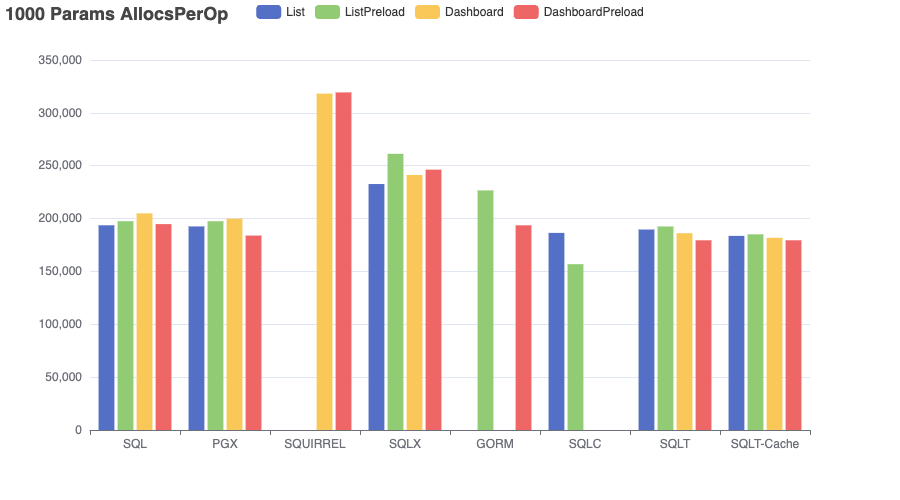
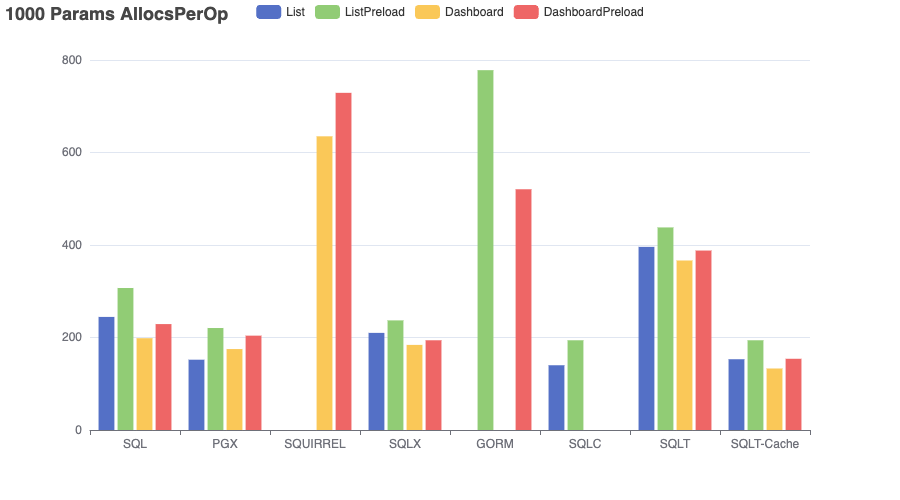
fix data bug

diff --git a/benchflix.go b/benchflix.go
@@ -321,12 +321,12 @@ func ReadAll(reader io.Reader) (Benchmark, error) {
 		switch {
 		case strings.HasPrefix(parts[3], "100-"):
 			szenario.Hundred.NsPerOp = append(szenario.Hundred.NsPerOp, b.NsPerOp)
-			szenario.Hundred.BytesPerOp = append(szenario.Hundred.NsPerOp, float64(b.AllocedBytesPerOp))
-			szenario.Hundred.AllocsPerOp = append(szenario.Hundred.NsPerOp, float64(b.AllocedBytesPerOp))
+			szenario.Hundred.BytesPerOp = append(szenario.Hundred.BytesPerOp, float64(b.AllocedBytesPerOp))
+			szenario.Hundred.AllocsPerOp = append(szenario.Hundred.AllocsPerOp, float64(b.AllocsPerOp))
 		case strings.HasPrefix(parts[3], "1000-"):
 			szenario.Thousand.NsPerOp = append(szenario.Thousand.NsPerOp, b.NsPerOp)
-			szenario.Thousand.BytesPerOp = append(szenario.Thousand.NsPerOp, float64(b.AllocedBytesPerOp))
-			szenario.Thousand.AllocsPerOp = append(szenario.Thousand.NsPerOp, float64(b.AllocedBytesPerOp))
+			szenario.Thousand.BytesPerOp = append(szenario.Thousand.BytesPerOp, float64(b.AllocedBytesPerOp))
+			szenario.Thousand.AllocsPerOp = append(szenario.Thousand.AllocsPerOp, float64(b.AllocsPerOp))
 		default:
 			return bench, fmt.Errorf("invalid params: %s", parts[3])
 		}

diff --git a/data/sqlt_bytesperop.tex b/data/sqlt_bytesperop.tex
@@ -5,14 +5,14 @@
 \toprule
 Szenario & Params & Q1 & Q2 & Q3 & QA & QA/Q2 \\
 \midrule
-		List & 100 & 190694 & 192974 & 195057 & 4363 & 2.3\% \\
-		ListPreload & 100 & 194123 & 194750 & 198892 & 4769 & 2.4\% \\
-		Dashboard & 100 & 202398 & 203927 & 205037 & 2639 & 1.3\% \\
-		DashboardPreload & 100 & 191094 & 193188 & 194897 & 3803 & 2.0\% \\
-		List & 1000 & 186502 & 189639 & 190550 & 4048 & 2.1\% \\
-		ListPreload & 1000 & 192104 & 192533 & 193596 & 1492 & 0.8\% \\
-		Dashboard & 1000 & 184166 & 186166 & 186684 & 2518 & 1.4\% \\
-		DashboardPreload & 1000 & 178355 & 179460 & 181207 & 2852 & 1.6\% \\
+		List & 100 & 16411 & 16442 & 16457 & 46 & 0.3\% \\
+		ListPreload & 100 & 18340 & 18363 & 18397 & 57 & 0.3\% \\
+		Dashboard & 100 & 15091 & 15098 & 15102 & 11 & 0.1\% \\
+		DashboardPreload & 100 & 16264 & 16307 & 16329 & 65 & 0.4\% \\
+		List & 1000 & 17269 & 17301 & 17312 & 43 & 0.2\% \\
+		ListPreload & 1000 & 19523 & 19554 & 19572 & 49 & 0.3\% \\
+		Dashboard & 1000 & 15900 & 15924 & 15957 & 57 & 0.4\% \\
+		DashboardPreload & 1000 & 17147 & 17159 & 17165 & 18 & 0.1\% \\
 \bottomrule
 \end{tabular}
 \label{tab:benchmark_sqlt_bytesperop}

diff --git a/data/sql_bytesperop.tex b/data/sql_bytesperop.tex
@@ -5,14 +5,14 @@
 \toprule
 Szenario & Params & Q1 & Q2 & Q3 & QA & QA/Q2 \\
 \midrule
-		List & 100 & 197822 & 199260 & 200730 & 2908 & 1.5\% \\
-		ListPreload & 100 & 199092 & 201232 & 211879 & 12787 & 6.4\% \\
-		Dashboard & 100 & 189181 & 190909 & 192038 & 2857 & 1.5\% \\
-		DashboardPreload & 100 & 193868 & 195524 & 199452 & 5584 & 2.9\% \\
-		List & 1000 & 191487 & 193646 & 194319 & 2832 & 1.5\% \\
-		ListPreload & 1000 & 196122 & 197495 & 198646 & 2524 & 1.3\% \\
-		Dashboard & 1000 & 202141 & 204913 & 206942 & 4801 & 2.3\% \\
-		DashboardPreload & 1000 & 193501 & 194758 & 196350 & 2849 & 1.5\% \\
+		List & 100 & 9312 & 9314 & 9322 & 10 & 0.1\% \\
+		ListPreload & 100 & 11952 & 11963 & 11991 & 39 & 0.3\% \\
+		Dashboard & 100 & 9996 & 10000 & 10004 & 8 & 0.1\% \\
+		DashboardPreload & 100 & 11694 & 11703 & 11716 & 22 & 0.2\% \\
+		List & 1000 & 10375 & 10389 & 10409 & 34 & 0.3\% \\
+		ListPreload & 1000 & 13223 & 13260 & 13273 & 50 & 0.4\% \\
+		Dashboard & 1000 & 10928 & 10957 & 11087 & 159 & 1.5\% \\
+		DashboardPreload & 1000 & 12826 & 12851 & 12860 & 34 & 0.3\% \\
 \bottomrule
 \end{tabular}
 \label{tab:benchmark_sql_bytesperop}

diff --git a/data/sqlx_bytesperop.tex b/data/sqlx_bytesperop.tex
@@ -5,14 +5,14 @@
 \toprule
 Szenario & Params & Q1 & Q2 & Q3 & QA & QA/Q2 \\
 \midrule
-		List & 100 & 235978 & 236831 & 239354 & 3376 & 1.4\% \\
-		ListPreload & 100 & 267592 & 269341 & 274021 & 6429 & 2.4\% \\
-		Dashboard & 100 & 242533 & 243964 & 245948 & 3415 & 1.4\% \\
-		DashboardPreload & 100 & 256052 & 257734 & 263776 & 7724 & 3.0\% \\
-		List & 1000 & 231355 & 232680 & 234089 & 2734 & 1.2\% \\
-		ListPreload & 1000 & 260418 & 261255 & 261689 & 1271 & 0.5\% \\
-		Dashboard & 1000 & 234530 & 241224 & 242045 & 7515 & 3.1\% \\
-		DashboardPreload & 1000 & 245000 & 246274 & 249209 & 4209 & 1.7\% \\
+		List & 100 & 8863 & 8900 & 8912 & 49 & 0.6\% \\
+		ListPreload & 100 & 12348 & 12360 & 12390 & 42 & 0.3\% \\
+		Dashboard & 100 & 11634 & 11646 & 11651 & 17 & 0.1\% \\
+		DashboardPreload & 100 & 12682 & 12689 & 12703 & 21 & 0.2\% \\
+		List & 1000 & 9663 & 9693 & 9722 & 59 & 0.6\% \\
+		ListPreload & 1000 & 12978 & 12982 & 13010 & 32 & 0.2\% \\
+		Dashboard & 1000 & 12082 & 12090 & 12101 & 19 & 0.2\% \\
+		DashboardPreload & 1000 & 13193 & 13229 & 13241 & 48 & 0.4\% \\
 \bottomrule
 \end{tabular}
 \label{tab:benchmark_sqlx_bytesperop}

diff --git a/data/pgx_bytesperop.tex b/data/pgx_bytesperop.tex
@@ -5,14 +5,14 @@
 \toprule
 Szenario & Params & Q1 & Q2 & Q3 & QA & QA/Q2 \\
 \midrule
-		List & 100 & 195230 & 196462 & 198097 & 2867 & 1.5\% \\
-		ListPreload & 100 & 198030 & 200307 & 205542 & 7512 & 3.8\% \\
-		Dashboard & 100 & 187988 & 188897 & 191004 & 3016 & 1.6\% \\
-		DashboardPreload & 100 & 188553 & 189463 & 192292 & 3739 & 2.0\% \\
-		List & 1000 & 188898 & 192566 & 194448 & 5550 & 2.9\% \\
-		ListPreload & 1000 & 196588 & 197478 & 199882 & 3294 & 1.7\% \\
-		Dashboard & 1000 & 198329 & 199952 & 201725 & 3396 & 1.7\% \\
-		DashboardPreload & 1000 & 182655 & 183925 & 185690 & 3035 & 1.7\% \\
+		List & 100 & 5849 & 5852 & 5868 & 19 & 0.3\% \\
+		ListPreload & 100 & 8667 & 8676 & 8691 & 24 & 0.3\% \\
+		Dashboard & 100 & 9379 & 9395 & 9398 & 19 & 0.2\% \\
+		DashboardPreload & 100 & 11307 & 11322 & 11333 & 26 & 0.2\% \\
+		List & 1000 & 7110 & 7113 & 7126 & 16 & 0.2\% \\
+		ListPreload & 1000 & 10200 & 10227 & 10250 & 50 & 0.5\% \\
+		Dashboard & 1000 & 10492 & 10510 & 10523 & 31 & 0.3\% \\
+		DashboardPreload & 1000 & 12436 & 12439 & 12442 & 6 & 0.0\% \\
 \bottomrule
 \end{tabular}
 \label{tab:benchmark_pgx_bytesperop}

diff --git a/data/sqlt-cache_bytesperop.tex b/data/sqlt-cache_bytesperop.tex
@@ -5,14 +5,14 @@
 \toprule
 Szenario & Params & Q1 & Q2 & Q3 & QA & QA/Q2 \\
 \midrule
-		List & 100 & 186463 & 187979 & 190975 & 4512 & 2.4\% \\
-		ListPreload & 100 & 184407 & 185907 & 190201 & 5794 & 3.1\% \\
-		Dashboard & 100 & 198863 & 200287 & 201462 & 2599 & 1.3\% \\
-		DashboardPreload & 100 & 188210 & 190965 & 192707 & 4497 & 2.4\% \\
-		List & 1000 & 181883 & 183607 & 189451 & 7568 & 4.1\% \\
-		ListPreload & 1000 & 184453 & 185115 & 186521 & 2068 & 1.1\% \\
-		Dashboard & 1000 & 180087 & 181845 & 182633 & 2546 & 1.4\% \\
-		DashboardPreload & 1000 & 177698 & 179467 & 181609 & 3911 & 2.2\% \\
+		List & 100 & 5444 & 5457 & 5482 & 38 & 0.7\% \\
+		ListPreload & 100 & 7452 & 7485 & 7517 & 65 & 0.9\% \\
+		Dashboard & 100 & 5089 & 5094 & 5109 & 20 & 0.4\% \\
+		DashboardPreload & 100 & 6038 & 6064 & 6093 & 55 & 0.9\% \\
+		List & 1000 & 6402 & 6426 & 6438 & 36 & 0.6\% \\
+		ListPreload & 1000 & 8805 & 8821 & 8837 & 32 & 0.4\% \\
+		Dashboard & 1000 & 6093 & 6102 & 6115 & 22 & 0.4\% \\
+		DashboardPreload & 1000 & 7310 & 7332 & 7339 & 29 & 0.4\% \\
 \bottomrule
 \end{tabular}
 \label{tab:benchmark_sqlt-cache_bytesperop}

diff --git a/data/sqlt-cache_allocsperop.tex b/data/sqlt-cache_allocsperop.tex
@@ -5,14 +5,14 @@
 \toprule
 Szenario & Params & Q1 & Q2 & Q3 & QA & QA/Q2 \\
 \midrule
-		List & 100 & 186463 & 187979 & 190975 & 4512 & 2.4\% \\
-		ListPreload & 100 & 184407 & 185907 & 190201 & 5794 & 3.1\% \\
-		Dashboard & 100 & 198863 & 200287 & 201462 & 2599 & 1.3\% \\
-		DashboardPreload & 100 & 188210 & 190965 & 192707 & 4497 & 2.4\% \\
-		List & 1000 & 181883 & 183607 & 189451 & 7568 & 4.1\% \\
-		ListPreload & 1000 & 184453 & 185115 & 186521 & 2068 & 1.1\% \\
-		Dashboard & 1000 & 180087 & 181845 & 182633 & 2546 & 1.4\% \\
-		DashboardPreload & 1000 & 177698 & 179467 & 181609 & 3911 & 2.2\% \\
+		List & 100 & 134 & 135 & 135 & 1 & 0.7\% \\
+		ListPreload & 100 & 170 & 171 & 171 & 1 & 0.6\% \\
+		Dashboard & 100 & 114 & 114 & 115 & 1 & 0.9\% \\
+		DashboardPreload & 100 & 132 & 132 & 133 & 1 & 0.8\% \\
+		List & 1000 & 153 & 153 & 154 & 1 & 0.7\% \\
+		ListPreload & 1000 & 194 & 194 & 195 & 1 & 0.5\% \\
+		Dashboard & 1000 & 133 & 133 & 133 & 0 & 0.0\% \\
+		DashboardPreload & 1000 & 153 & 154 & 154 & 1 & 0.6\% \\
 \bottomrule
 \end{tabular}
 \label{tab:benchmark_sqlt-cache_allocsperop}

diff --git a/data/sql_allocsperop.tex b/data/sql_allocsperop.tex
@@ -5,14 +5,14 @@
 \toprule
 Szenario & Params & Q1 & Q2 & Q3 & QA & QA/Q2 \\
 \midrule
-		List & 100 & 197822 & 199260 & 200730 & 2908 & 1.5\% \\
-		ListPreload & 100 & 199092 & 201232 & 211879 & 12787 & 6.4\% \\
-		Dashboard & 100 & 189181 & 190909 & 192038 & 2857 & 1.5\% \\
-		DashboardPreload & 100 & 193868 & 195524 & 199452 & 5584 & 2.9\% \\
-		List & 1000 & 191487 & 193646 & 194319 & 2832 & 1.5\% \\
-		ListPreload & 1000 & 196122 & 197495 & 198646 & 2524 & 1.3\% \\
-		Dashboard & 1000 & 202141 & 204913 & 206942 & 4801 & 2.3\% \\
-		DashboardPreload & 1000 & 193501 & 194758 & 196350 & 2849 & 1.5\% \\
+		List & 100 & 207 & 207 & 207 & 0 & 0.0\% \\
+		ListPreload & 100 & 260 & 260 & 263 & 3 & 1.2\% \\
+		Dashboard & 100 & 176 & 176 & 176 & 0 & 0.0\% \\
+		DashboardPreload & 100 & 197 & 197 & 197 & 0 & 0.0\% \\
+		List & 1000 & 244 & 245 & 245 & 1 & 0.4\% \\
+		ListPreload & 1000 & 305 & 307 & 307 & 2 & 0.7\% \\
+		Dashboard & 1000 & 198 & 199 & 205 & 7 & 3.5\% \\
+		DashboardPreload & 1000 & 228 & 229 & 229 & 1 & 0.4\% \\
 \bottomrule
 \end{tabular}
 \label{tab:benchmark_sql_allocsperop}

diff --git a/data/sqlt_allocsperop.tex b/data/sqlt_allocsperop.tex
@@ -5,14 +5,14 @@
 \toprule
 Szenario & Params & Q1 & Q2 & Q3 & QA & QA/Q2 \\
 \midrule
-		List & 100 & 190694 & 192974 & 195057 & 4363 & 2.3\% \\
-		ListPreload & 100 & 194123 & 194750 & 198892 & 4769 & 2.4\% \\
-		Dashboard & 100 & 202398 & 203927 & 205037 & 2639 & 1.3\% \\
-		DashboardPreload & 100 & 191094 & 193188 & 194897 & 3803 & 2.0\% \\
-		List & 1000 & 186502 & 189639 & 190550 & 4048 & 2.1\% \\
-		ListPreload & 1000 & 192104 & 192533 & 193596 & 1492 & 0.8\% \\
-		Dashboard & 1000 & 184166 & 186166 & 186684 & 2518 & 1.4\% \\
-		DashboardPreload & 1000 & 178355 & 179460 & 181207 & 2852 & 1.6\% \\
+		List & 100 & 377 & 378 & 378 & 1 & 0.3\% \\
+		ListPreload & 100 & 416 & 416 & 417 & 1 & 0.2\% \\
+		Dashboard & 100 & 349 & 350 & 350 & 1 & 0.3\% \\
+		DashboardPreload & 100 & 372 & 372 & 373 & 1 & 0.3\% \\
+		List & 1000 & 395 & 396 & 396 & 1 & 0.3\% \\
+		ListPreload & 1000 & 437 & 438 & 438 & 1 & 0.2\% \\
+		Dashboard & 1000 & 366 & 367 & 367 & 1 & 0.3\% \\
+		DashboardPreload & 1000 & 388 & 388 & 388 & 0 & 0.0\% \\
 \bottomrule
 \end{tabular}
 \label{tab:benchmark_sqlt_allocsperop}

diff --git a/data/sqlx_allocsperop.tex b/data/sqlx_allocsperop.tex
@@ -5,14 +5,14 @@
 \toprule
 Szenario & Params & Q1 & Q2 & Q3 & QA & QA/Q2 \\
 \midrule
-		List & 100 & 235978 & 236831 & 239354 & 3376 & 1.4\% \\
-		ListPreload & 100 & 267592 & 269341 & 274021 & 6429 & 2.4\% \\
-		Dashboard & 100 & 242533 & 243964 & 245948 & 3415 & 1.4\% \\
-		DashboardPreload & 100 & 256052 & 257734 & 263776 & 7724 & 3.0\% \\
-		List & 1000 & 231355 & 232680 & 234089 & 2734 & 1.2\% \\
-		ListPreload & 1000 & 260418 & 261255 & 261689 & 1271 & 0.5\% \\
-		Dashboard & 1000 & 234530 & 241224 & 242045 & 7515 & 3.1\% \\
-		DashboardPreload & 1000 & 245000 & 246274 & 249209 & 4209 & 1.7\% \\
+		List & 100 & 192 & 193 & 193 & 1 & 0.5\% \\
+		ListPreload & 100 & 221 & 221 & 222 & 1 & 0.5\% \\
+		Dashboard & 100 & 169 & 170 & 170 & 1 & 0.6\% \\
+		DashboardPreload & 100 & 181 & 181 & 181 & 0 & 0.0\% \\
+		List & 1000 & 210 & 210 & 211 & 1 & 0.5\% \\
+		ListPreload & 1000 & 237 & 237 & 238 & 1 & 0.4\% \\
+		Dashboard & 1000 & 183 & 184 & 184 & 1 & 0.5\% \\
+		DashboardPreload & 1000 & 193 & 194 & 195 & 2 & 1.0\% \\
 \bottomrule
 \end{tabular}
 \label{tab:benchmark_sqlx_allocsperop}

diff --git a/data/pgx_allocsperop.tex b/data/pgx_allocsperop.tex
@@ -5,14 +5,14 @@
 \toprule
 Szenario & Params & Q1 & Q2 & Q3 & QA & QA/Q2 \\
 \midrule
-		List & 100 & 195230 & 196462 & 198097 & 2867 & 1.5\% \\
-		ListPreload & 100 & 198030 & 200307 & 205542 & 7512 & 3.8\% \\
-		Dashboard & 100 & 187988 & 188897 & 191004 & 3016 & 1.6\% \\
-		DashboardPreload & 100 & 188553 & 189463 & 192292 & 3739 & 2.0\% \\
-		List & 1000 & 188898 & 192566 & 194448 & 5550 & 2.9\% \\
-		ListPreload & 1000 & 196588 & 197478 & 199882 & 3294 & 1.7\% \\
-		Dashboard & 1000 & 198329 & 199952 & 201725 & 3396 & 1.7\% \\
-		DashboardPreload & 1000 & 182655 & 183925 & 185690 & 3035 & 1.7\% \\
+		List & 100 & 127 & 128 & 128 & 1 & 0.8\% \\
+		ListPreload & 100 & 184 & 185 & 185 & 1 & 0.5\% \\
+		Dashboard & 100 & 154 & 154 & 154 & 0 & 0.0\% \\
+		DashboardPreload & 100 & 181 & 181 & 181 & 0 & 0.0\% \\
+		List & 1000 & 152 & 152 & 152 & 0 & 0.0\% \\
+		ListPreload & 1000 & 220 & 221 & 221 & 1 & 0.5\% \\
+		Dashboard & 1000 & 174 & 175 & 175 & 1 & 0.6\% \\
+		DashboardPreload & 1000 & 204 & 204 & 205 & 1 & 0.5\% \\
 \bottomrule
 \end{tabular}
 \label{tab:benchmark_pgx_allocsperop}

diff --git a/data/gorm_bytesperop.tex b/data/gorm_bytesperop.tex
@@ -5,10 +5,10 @@
 \toprule
 Szenario & Params & Q1 & Q2 & Q3 & QA & QA/Q2 \\
 \midrule
-		ListPreload & 100 & 219652 & 221136 & 225370 & 5718 & 2.6\% \\
-		DashboardPreload & 100 & 199113 & 201605 & 205611 & 6498 & 3.2\% \\
-		ListPreload & 1000 & 225619 & 226650 & 229797 & 4178 & 1.8\% \\
-		DashboardPreload & 1000 & 192060 & 193626 & 194520 & 2460 & 1.3\% \\
+		ListPreload & 100 & 39410 & 39775 & 39812 & 402 & 1.0\% \\
+		DashboardPreload & 100 & 27756 & 27774 & 27811 & 55 & 0.2\% \\
+		ListPreload & 1000 & 42194 & 42440 & 42621 & 427 & 1.0\% \\
+		DashboardPreload & 1000 & 29623 & 29743 & 30385 & 762 & 2.6\% \\
 \bottomrule
 \end{tabular}
 \label{tab:benchmark_gorm_bytesperop}
